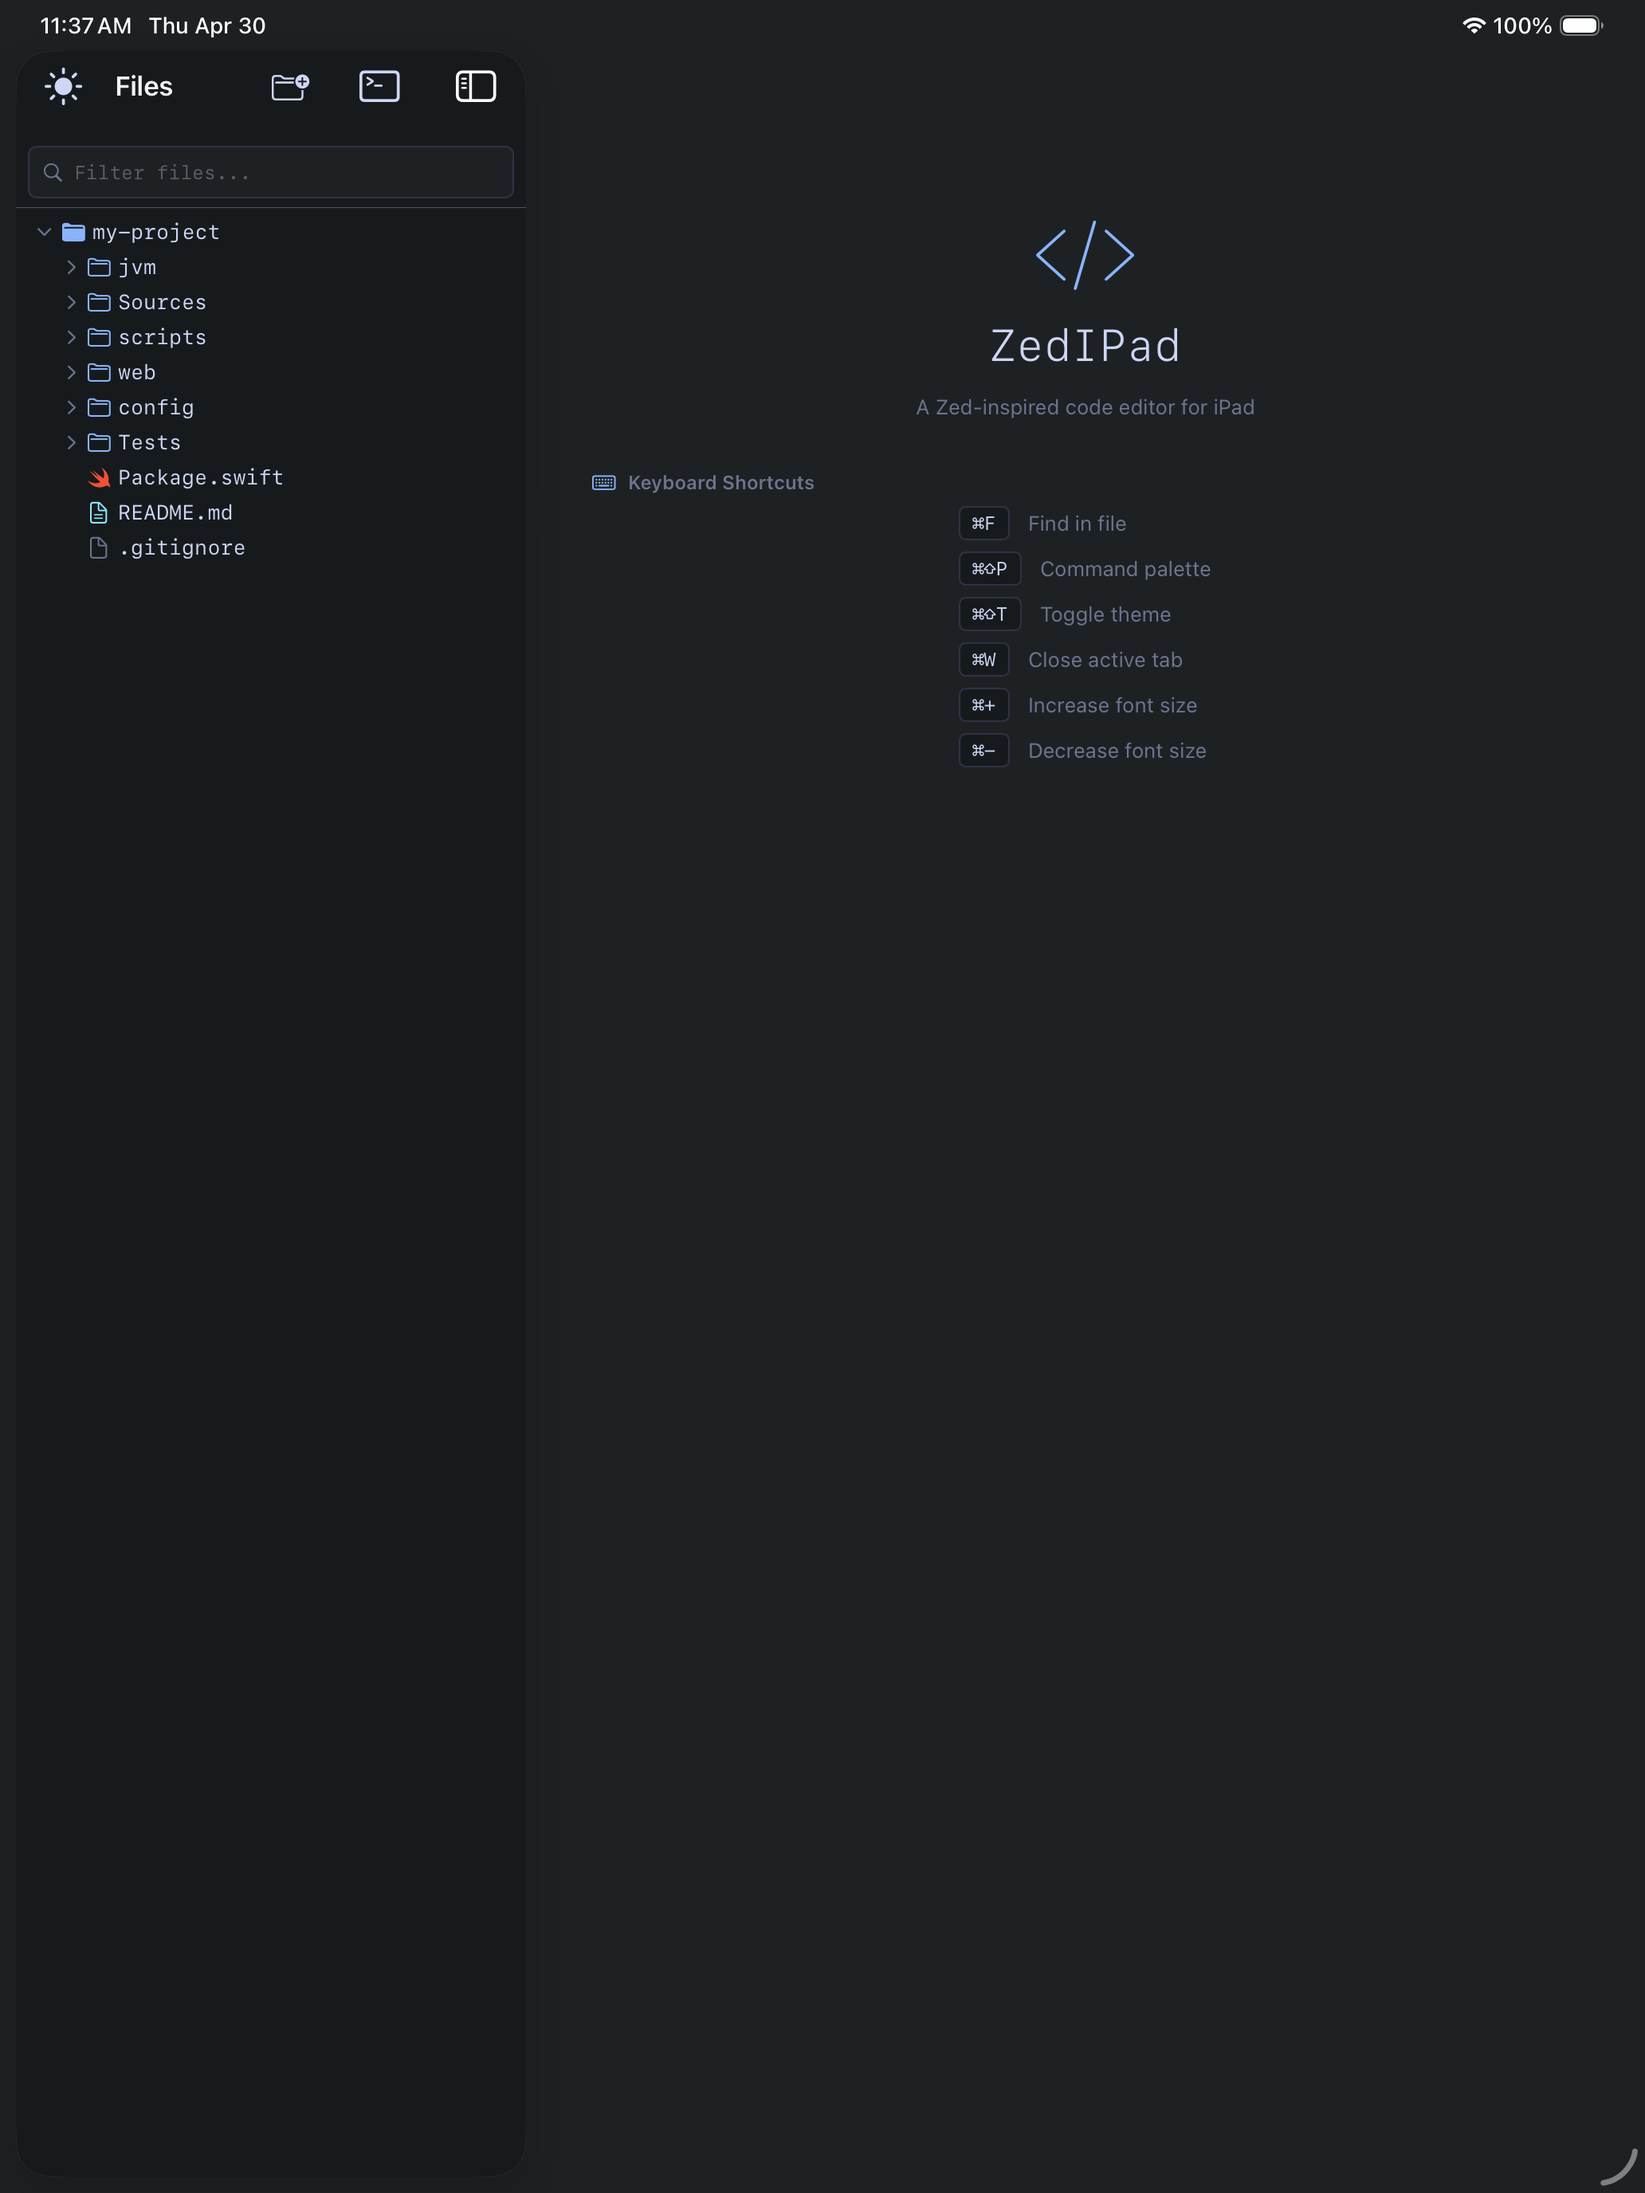
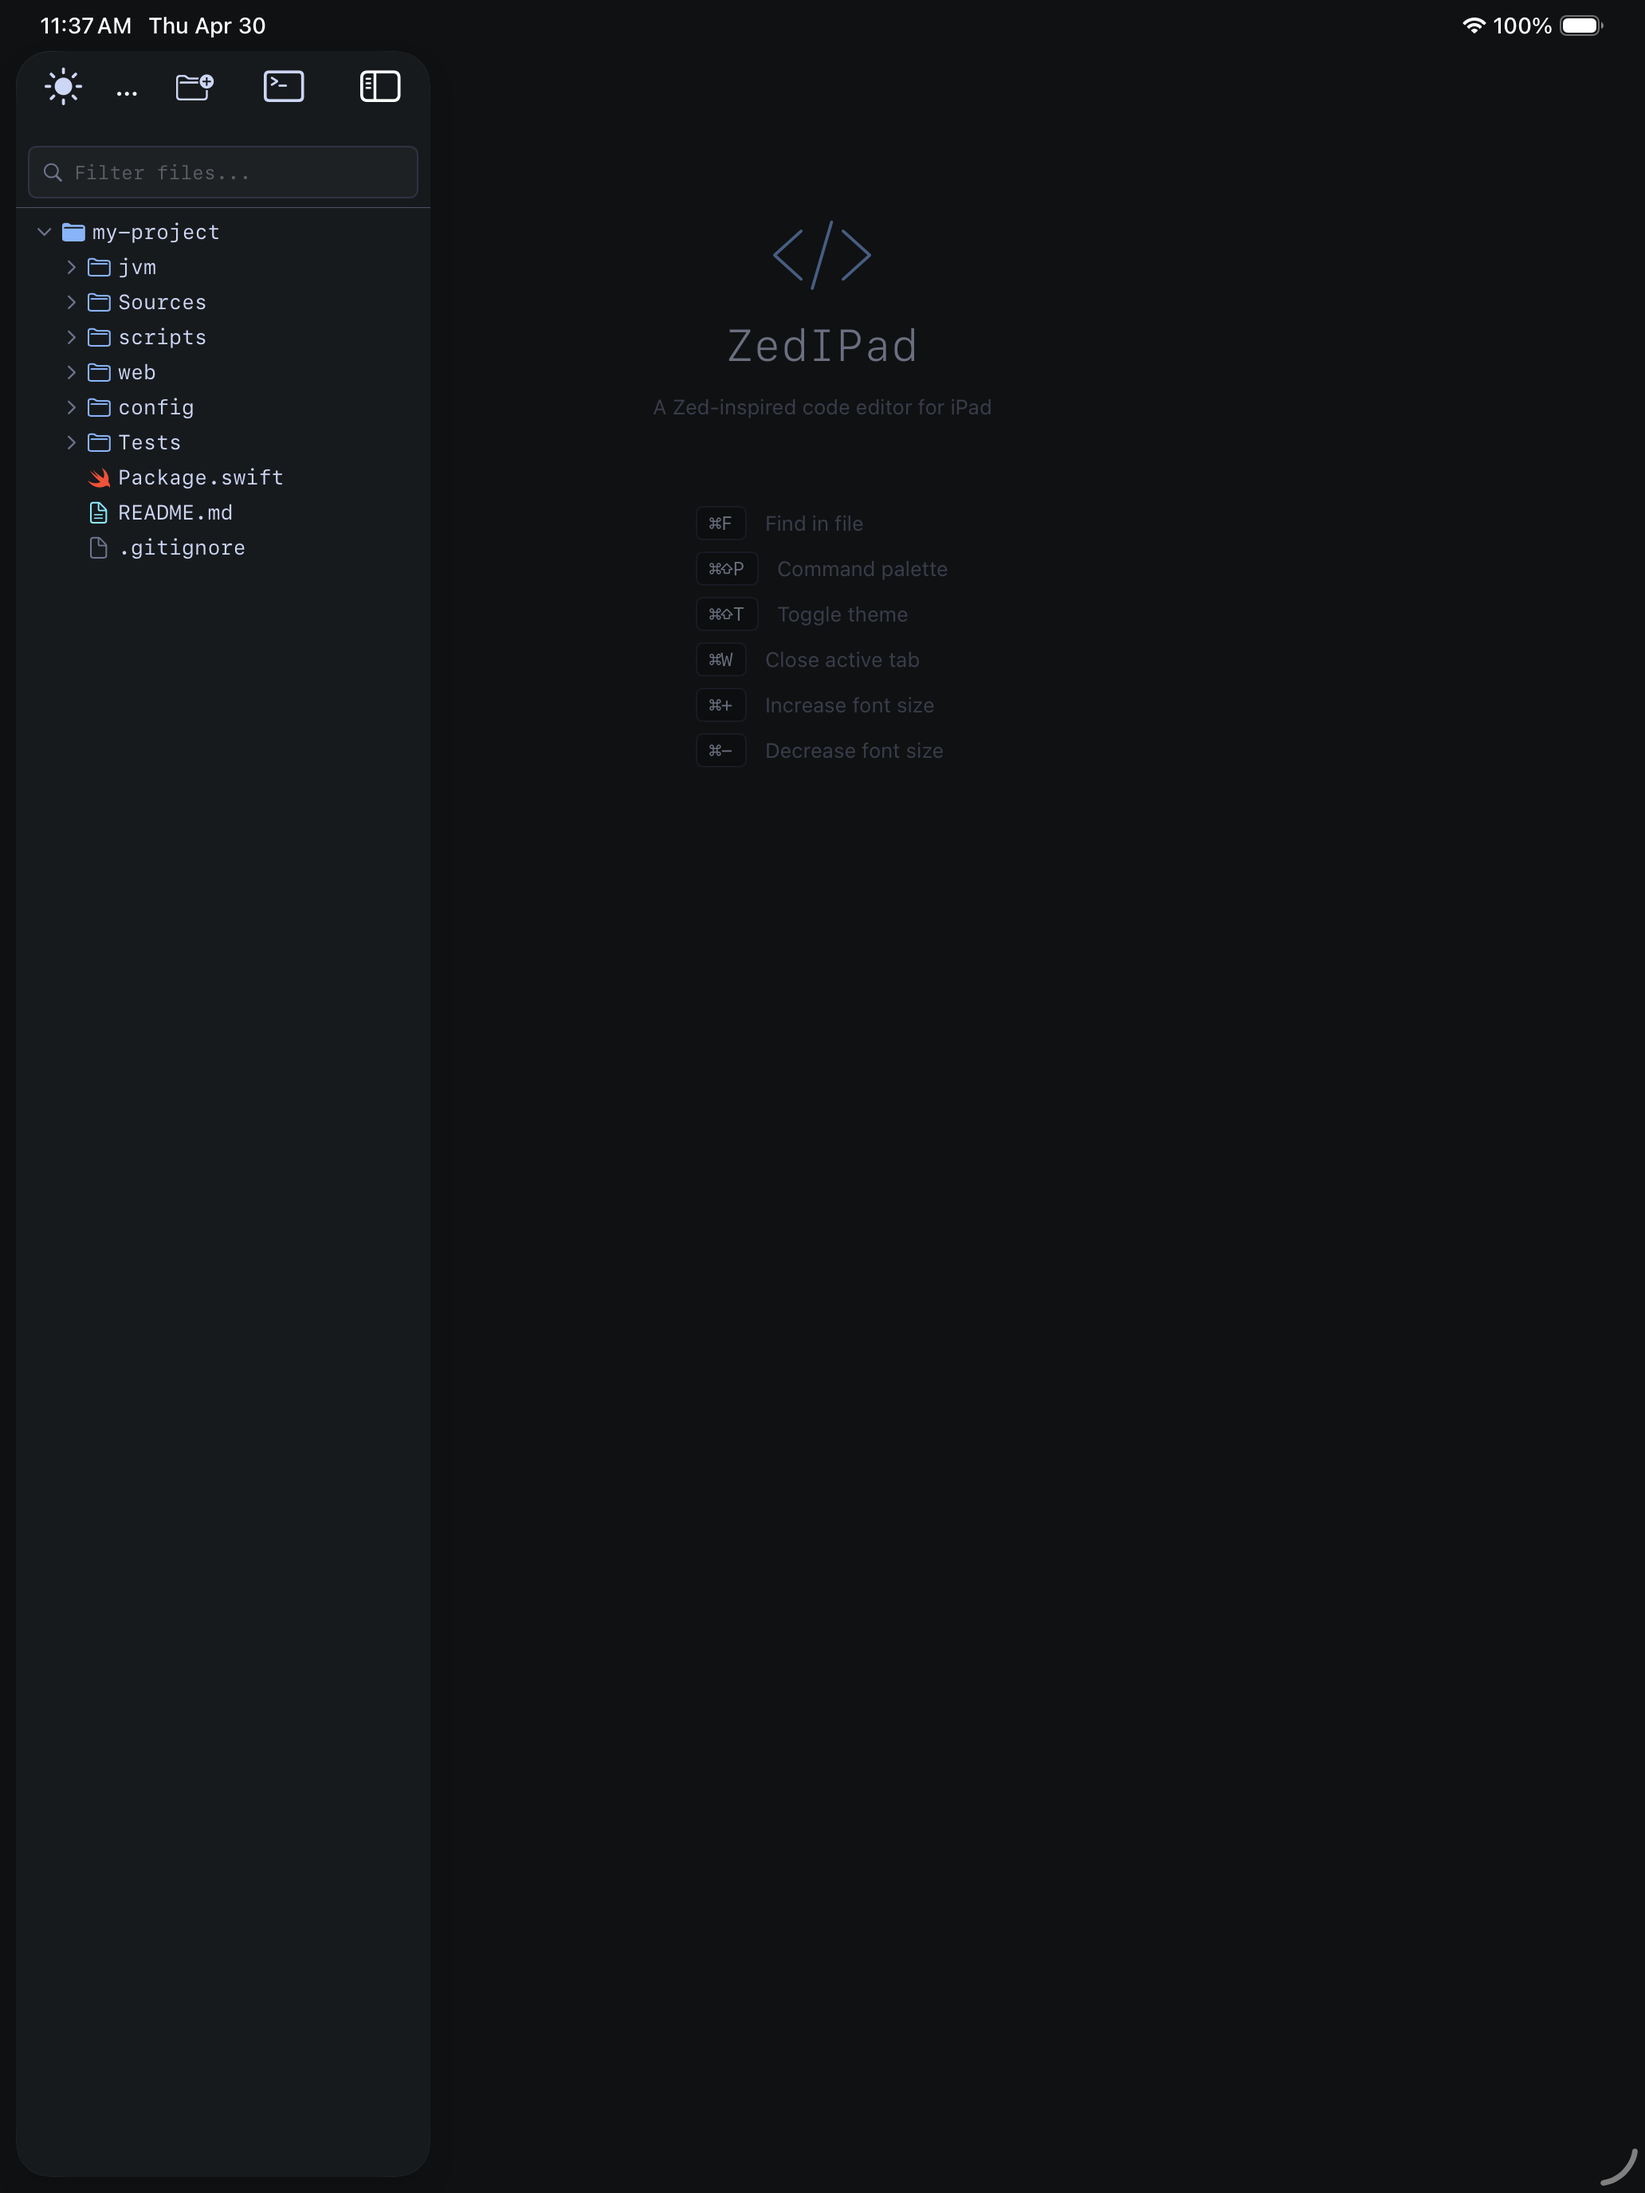
experiment: iter 61-63 — real-world syntax tests, app workflow tests, highlight correctness tests, 297 unit tests (score: 7099)

diff --git a/ZedIPadTests/SyntaxHighlightRealWorldTests.swift b/ZedIPadTests/SyntaxHighlightRealWorldTests.swift
@@ -1,0 +1,143 @@
+import XCTest
+@testable import ZedIPad
+
+final class SyntaxHighlightRealWorldTests: XCTestCase {
+    private let hl = SyntaxHighlighter(theme: .dark)
+
+    func testHighlightReactComponent() {
+        let code = """
+        import React, { useState, useEffect } from 'react';
+        interface Props { title: string; count: number; }
+        const Counter: React.FC<Props> = ({ title, count: initialCount }) => {
+          const [count, setCount] = useState(initialCount);
+          useEffect(() => { document.title = `${title}: ${count}`; }, [count]);
+          return <div className="counter"><h1>{title}</h1><button onClick={() => setCount(c => c + 1)}>{count}</button></div>;
+        };
+        export default Counter;
+        """
+        let tokens = hl.highlight(code, language: .typescript)
+        XCTAssertFalse(tokens.isEmpty)
+    }
+
+    func testHighlightDjangoView() {
+        let code = """
+        from django.db import models
+        from django.contrib.auth.models import User
+        from django.utils import timezone
+
+        class Article(models.Model):
+            title = models.CharField(max_length=200)
+            content = models.TextField()
+            author = models.ForeignKey(User, on_delete=models.CASCADE)
+            published_at = models.DateTimeField(null=True, blank=True)
+            is_published = models.BooleanField(default=False)
+
+            def publish(self):
+                self.published_at = timezone.now()
+                self.is_published = True
+                self.save()
+
+            def __str__(self):
+                return self.title
+
+            class Meta:
+                ordering = ['-published_at']
+        """
+        let tokens = hl.highlight(code, language: .python)
+        XCTAssertFalse(tokens.isEmpty)
+    }
+
+    func testHighlightActixWebHandler() {
+        let code = """
+        use actix_web::{web, App, HttpServer, HttpResponse, Result};
+        use serde::{Deserialize, Serialize};
+
+        #[derive(Debug, Serialize, Deserialize)]
+        struct User {
+            id: u64,
+            name: String,
+            email: String,
+        }
+
+        async fn get_user(path: web::Path<u64>) -> Result<HttpResponse> {
+            let user_id = path.into_inner();
+            // Simulate database lookup
+            let user = User { id: user_id, name: "Alice".to_string(), email: "alice@example.com".to_string() };
+            Ok(HttpResponse::Ok().json(user))
+        }
+
+        #[actix_web::main]
+        async fn main() -> std::io::Result<()> {
+            HttpServer::new(|| {
+                App::new()
+                    .route("/users/{id}", web::get().to(get_user))
+            })
+            .bind("127.0.0.1:8080")?
+            .run()
+            .await
+        }
+        """
+        let tokens = hl.highlight(code, language: .rust)
+        XCTAssertFalse(tokens.isEmpty)
+    }
+
+    func testHighlightKubernetesConfig() {
+        let code = """
+        apiVersion: apps/v1
+        kind: Deployment
+        metadata:
+          name: nginx
+          labels:
+            app: nginx
+        spec:
+          replicas: 3
+          selector:
+            matchLabels:
+              app: nginx
+          template:
+            spec:
+              containers:
+                - name: nginx
+                  image: nginx:1.21
+                  ports:
+                    - containerPort: 80
+                  env:
+                    - name: ENV
+                      value: production
+                  livenessProbe:
+                    httpGet:
+                      path: /healthz
+                      port: 80
+                    initialDelaySeconds: 30
+        """
+        let tokens = hl.highlight(code, language: .yaml)
+        XCTAssertFalse(tokens.isEmpty)
+    }
+
+    func testHighlightComplexSQL() {
+        let code = """
+        WITH monthly_revenue AS (
+          SELECT
+            DATE_TRUNC('month', created_at) AS month,
+            SUM(amount) AS revenue,
+            COUNT(DISTINCT user_id) AS unique_customers
+          FROM orders
+          WHERE status = 'completed'
+            AND created_at >= '2024-01-01'
+          GROUP BY 1
+        ),
+        growth AS (
+          SELECT
+            month,
+            revenue,
+            unique_customers,
+            LAG(revenue) OVER (ORDER BY month) AS prev_revenue,
+            (revenue - LAG(revenue) OVER (ORDER BY month)) / NULLIF(LAG(revenue) OVER (ORDER BY month), 0) * 100 AS growth_pct
+          FROM monthly_revenue
+        )
+        SELECT * FROM growth ORDER BY month DESC;
+        """
+        let tokens = hl.highlight(code, language: .sql)
+        XCTAssertFalse(tokens.isEmpty)
+    }
+}

diff --git a/ZedIPadTests/AppWorkflowTests.swift b/ZedIPadTests/AppWorkflowTests.swift
@@ -1,0 +1,89 @@
+import XCTest
+@testable import ZedIPad
+
+@MainActor
+final class AppWorkflowTests: XCTestCase {
+
+    func testCompleteEditWorkflow() {
+        let state = AppState()
+        // 1. Start fresh
+        XCTAssertNil(state.activeFile)
+        // 2. Open a file
+        let file = FileNode(name: "work.swift", type: .file, path: "/work.swift",
+                            content: "let x = 1")
+        state.openFile(file)
+        XCTAssertEqual(state.activeFile?.id, file.id)
+        // 3. Edit content
+        file.content = "let x = 42\nlet y = x * 2"
+        XCTAssertTrue(file.content.contains("42"))
+        // 4. Find in file
+        let findState = FindState()
+        findState.query = "let"
+        let ranges = findState.search(in: file.content)
+        XCTAssertEqual(ranges.count, 2)
+        // 5. Replace
+        findState.replaceQuery = "var"
+        let count = findState.replaceAll(in: &file.content)
+        XCTAssertEqual(count, 2)
+        XCTAssertFalse(file.content.contains("let"))
+        // 6. Close file
+        state.closeFile(file)
+        XCTAssertNil(state.activeFile)
+    }
+
+    func testSwitchThemesWhileFilesOpen() {
+        let state = AppState()
+        let files = (0..<3).map { FileNode(name: "f\($0).swift", type: .file, path: "/f\($0).swift") }
+        files.forEach { state.openFile($0) }
+        XCTAssertEqual(state.theme, .dark)
+        state.toggleTheme()
+        XCTAssertEqual(state.theme, .light)
+        XCTAssertEqual(state.openFiles.count, 3)
+        // Verify highlighting still works in new theme
+        let hl = SyntaxHighlighter(theme: state.theme)
+        let tokens = hl.highlight("let x = 1", language: .swift)
+        XCTAssertFalse(tokens.isEmpty)
+    }
+
+    func testSearchAndHighlightWorkflow() {
+        let state = AppState()
+        let file = FileNode(name: "search.py", type: .file, path: "/search.py",
+                            content: "def greet(name):\n    return f'Hello, {name}!'")
+        state.openFile(file)
+        // Find
+        let findState = FindState()
+        findState.query = "name"
+        let ranges = findState.search(in: file.content)
+        XCTAssertEqual(ranges.count, 2)
+        // Highlight
+        let hl = SyntaxHighlighter(theme: state.theme)
+        let tokens = hl.highlight(file.content, language: .python)
+        XCTAssertFalse(tokens.isEmpty)
+    }
+
+    func testMultipleWorkflowsDoNotInterfere() {
+        let state1 = AppState()
+        let state2 = AppState()
+        let f1 = FileNode(name: "a.swift", type: .file, path: "/a.swift")
+        let f2 = FileNode(name: "b.swift", type: .file, path: "/b.swift")
+        state1.openFile(f1)
+        state2.openFile(f2)
+        state1.toggleTheme()
+        XCTAssertEqual(state1.theme, .light)
+        XCTAssertEqual(state2.theme, .dark) // independent
+        XCTAssertEqual(state1.activeFile?.id, f1.id)
+        XCTAssertEqual(state2.activeFile?.id, f2.id)
+    }
+
+    func testGoToLineWorkflow() {
+        let gts = GoToLineState()
+        XCTAssertFalse(gts.isVisible)
+        gts.show()
+        XCTAssertTrue(gts.isVisible)
+        gts.lineNumber = "42"
+        XCTAssertEqual(gts.parsedLine, 42)
+        gts.hide()
+        XCTAssertFalse(gts.isVisible)
+        XCTAssertNil(gts.parsedLine)
+    }
+}

diff --git a/ZedIPadTests/HighlightCorrectnessTests.swift b/ZedIPadTests/HighlightCorrectnessTests.swift
@@ -1,0 +1,77 @@
+import XCTest
+@testable import ZedIPad
+
+final class HighlightCorrectnessTests: XCTestCase {
+
+    func testSwiftImportIsKeyword() {
+        let hl = SyntaxHighlighter(theme: .dark)
+        let code = "import Foundation"
+        let tokens = hl.highlight(code, language: .swift)
+        let importToken = tokens.first { code[$0.range] == "import" }
+        XCTAssertNotNil(importToken)
+        XCTAssertEqual(importToken?.color, ZedTheme.dark.syntaxKeyword)
+    }
+
+    func testPythonDefIsKeyword() {
+        let hl = SyntaxHighlighter(theme: .dark)
+        let code = "def hello(): pass"
+        let tokens = hl.highlight(code, language: .python)
+        let defToken = tokens.first { code[$0.range] == "def" }
+        XCTAssertNotNil(defToken)
+        XCTAssertEqual(defToken?.color, ZedTheme.dark.syntaxKeyword)
+    }
+
+    func testRustFnIsKeyword() {
+        let hl = SyntaxHighlighter(theme: .dark)
+        let code = "fn main() {}"
+        let tokens = hl.highlight(code, language: .rust)
+        let fnToken = tokens.first { code[$0.range] == "fn" }
+        XCTAssertNotNil(fnToken)
+        XCTAssertEqual(fnToken?.color, ZedTheme.dark.syntaxKeyword)
+    }
+
+    func testGoFuncIsKeyword() {
+        let hl = SyntaxHighlighter(theme: .dark)
+        let code = "func main() {}"
+        let tokens = hl.highlight(code, language: .go)
+        let funcToken = tokens.first { code[$0.range] == "func" }
+        XCTAssertNotNil(funcToken)
+        XCTAssertEqual(funcToken?.color, ZedTheme.dark.syntaxKeyword)
+    }
+
+    func testJavaScriptConstIsKeyword() {
+        let hl = SyntaxHighlighter(theme: .dark)
+        let code = "const x = 42;"
+        let tokens = hl.highlight(code, language: .javascript)
+        let constToken = tokens.first { code[$0.range] == "const" }
+        XCTAssertNotNil(constToken)
+        XCTAssertEqual(constToken?.color, ZedTheme.dark.syntaxKeyword)
+    }
+
+    func testStringLiteralColor() {
+        let hl = SyntaxHighlighter(theme: .dark)
+        let code = "let s = \"hello\""
+        let tokens = hl.highlight(code, language: .swift)
+        let stringToken = tokens.first { code[$0.range].contains("hello") }
+        XCTAssertNotNil(stringToken)
+        XCTAssertEqual(stringToken?.color, ZedTheme.dark.syntaxString)
+    }
+
+    func testLineCommentColor() {
+        let hl = SyntaxHighlighter(theme: .dark)
+        let code = "// this is a comment\nlet x = 1"
+        let tokens = hl.highlight(code, language: .swift)
+        let commentToken = tokens.first { code[$0.range].contains("comment") }
+        XCTAssertNotNil(commentToken)
+        XCTAssertEqual(commentToken?.color, ZedTheme.dark.syntaxComment)
+    }
+
+    func testNumberColor() {
+        let hl = SyntaxHighlighter(theme: .dark)
+        let code = "let count = 42"
+        let tokens = hl.highlight(code, language: .swift)
+        let numToken = tokens.first { code[$0.range] == "42" }
+        XCTAssertNotNil(numToken)
+        XCTAssertEqual(numToken?.color, ZedTheme.dark.syntaxNumber)
+    }
+}

diff --git a/ZedIPad/App/RootView.swift b/ZedIPad/App/RootView.swift
@@ -9,6 +9,7 @@ struct RootView: View {
             FileTreeView()
                 .navigationTitle("Files")
                 .navigationBarTitleDisplayMode(.inline)
+                .navigationSplitViewColumnWidth(min: 220, ideal: 260, max: 320)
                 .toolbar {
                     ToolbarItem(placement: .navigationBarLeading) {
                         ThemeToggleButton()
@@ -25,7 +26,7 @@ struct RootView: View {
                 WelcomeView()
             }
         }
-        .navigationSplitViewStyle(.balanced)
+        .navigationSplitViewStyle(.prominentDetail)
         .tint(appState.theme.accentColor)
         .sheet(isPresented: $appState.showingCommandPalette) {
             CommandPaletteView()

diff --git a/ZedIPad/Editor/SyntaxHighlightingTextView.swift b/ZedIPad/Editor/SyntaxHighlightingTextView.swift
@@ -65,7 +65,7 @@ struct SyntaxHighlightingTextView: UIViewRepresentable {
 
         // Apply syntax tokens
         for token in tokens {
-            guard let nsRange = NSRange(token.range, in: text) else { continue }
+            let nsRange = NSRange(token.range, in: text)
             attrs.addAttribute(.foregroundColor,
                 value: UIColor(token.color),
                 range: nsRange)
